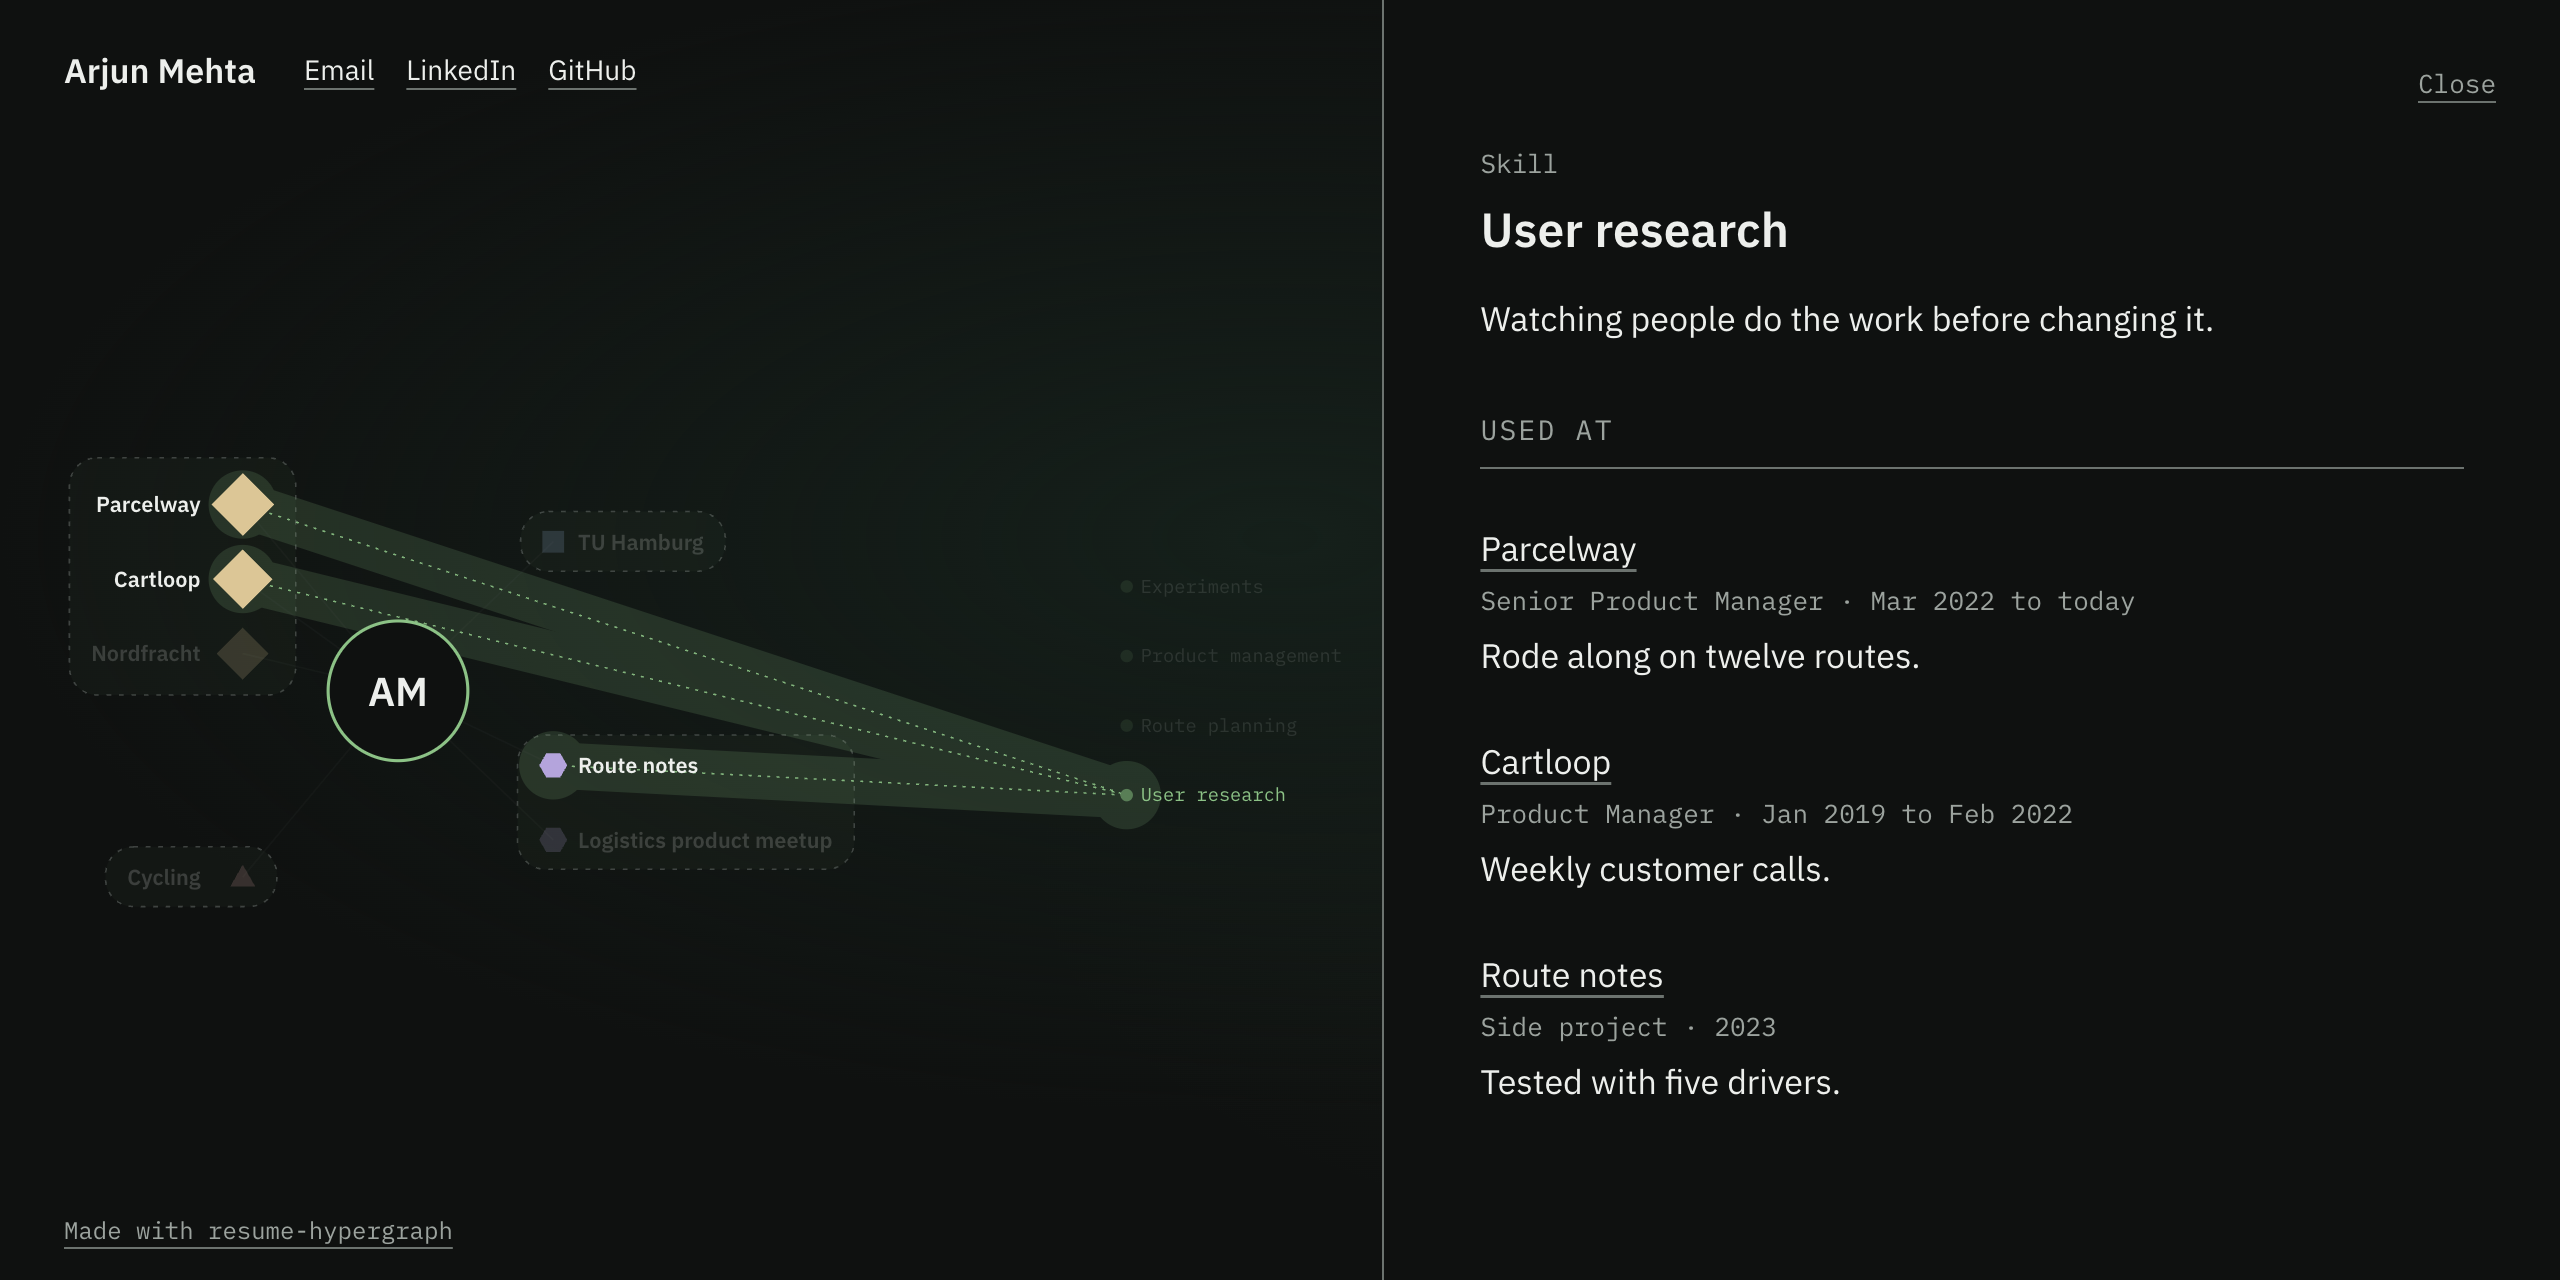
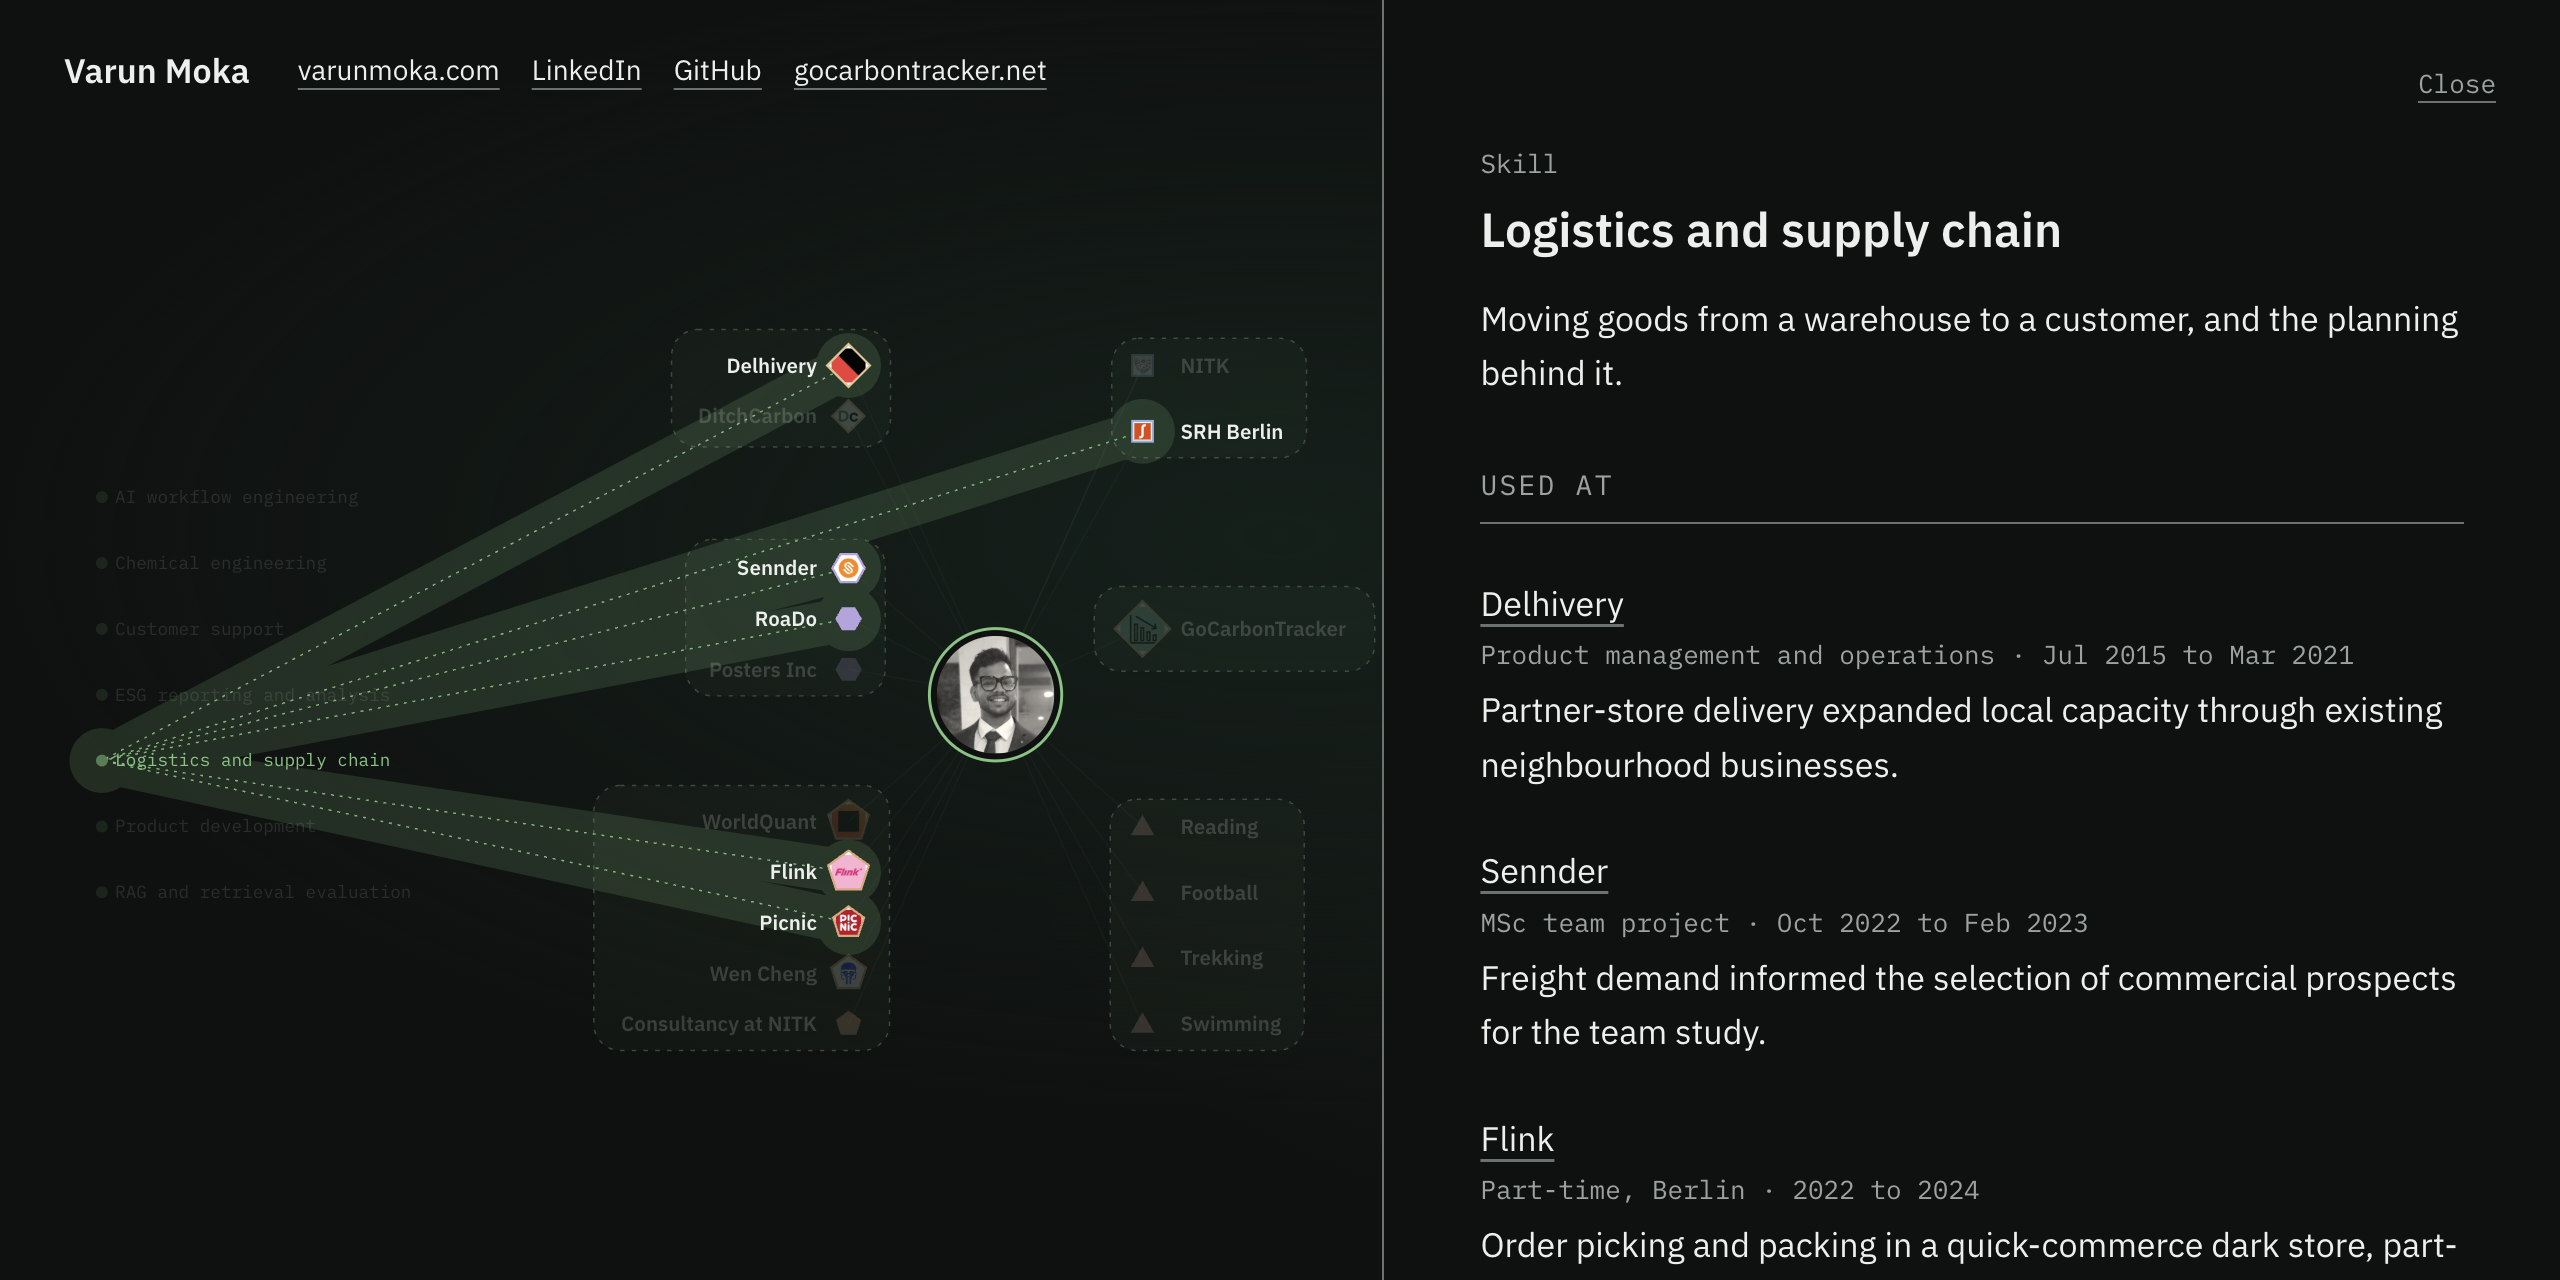
Picture is the author's own graph; credit link hides while the panel is open

diff --git a/view/style.css b/view/style.css
@@ -201,6 +201,7 @@ svg .photo-initials { font: 600 26px/1 var(--sans); fill: var(--text); }
   .js .stage { position: absolute; inset: 0; height: auto; outline: none; }
   .js .contact { display: none; }
   .js .made { position: fixed; left: var(--gutter); bottom: 16px; z-index: 4; padding: 0; }
+  .js .panel-open .made { visibility: hidden; } /* the graph pans when the panel opens and can slide under the link */
   .js .topline {
     display: flex; align-items: center; gap: 16px 24px; flex-wrap: wrap;
     position: absolute; top: 20px; left: var(--gutter); right: var(--gutter); z-index: 3;

diff --git a/AGENTS.md b/AGENTS.md
@@ -23,4 +23,4 @@ To try it on a made-up resume: `examples/lena-hoffmann-resume.txt`.
 - After changing `view/`, run `python3 scripts/serve.py 8131` and `browser-harness < scripts/check-layout.py` (every sample, four screen sizes, no overlapping labels).
 - After changing `scripts/profile.mjs` or the data format, run `node --test scripts/` (it also checks each file in `view/data/`).
 - The data format is defined once, in `skills/resume-graph/PROFILE-FORMAT.md`.
-- Sample people and companies are made up. Do not add a real person's resume to the repository.
+- Sample people and companies are made up. Do not add a real person's resume to the repository. The picture in `docs/` is the author's own graph, by his choice; its data file stays out of the repository.

diff --git a/README.md b/README.md
@@ -7,7 +7,7 @@ one sentence saying what was done there with it.
 
 The result is one HTML file. Plain HTML, CSS and JavaScript, no build step, no libraries. The fonts are inside the file, so the page loads nothing from another site.
 
-![The graph of a made-up product manager with the skill "User research" open: a band joins the three places it was used, and the panel gives one sentence for each](docs/graph.png)
+![The author's own resume as a graph, built with this tool, with the skill "Logistics and supply chain" open: a band joins every place it was used, and the panel gives one sentence for each](docs/graph.png)
 
 The page carries a small "Made with resume-hypergraph" link in one corner; `"credit": false` in the data file removes it.
 
